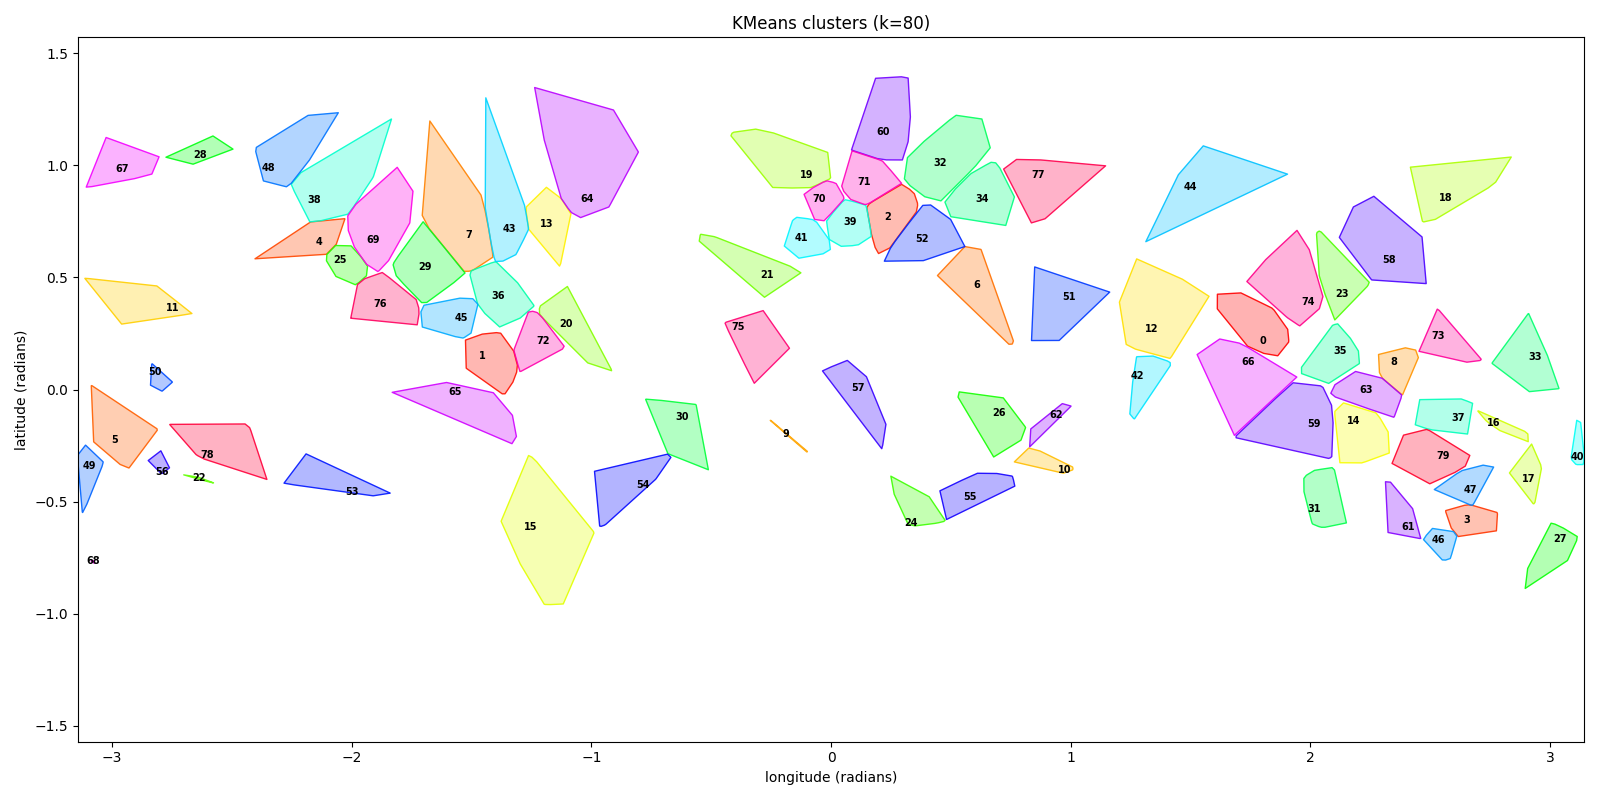
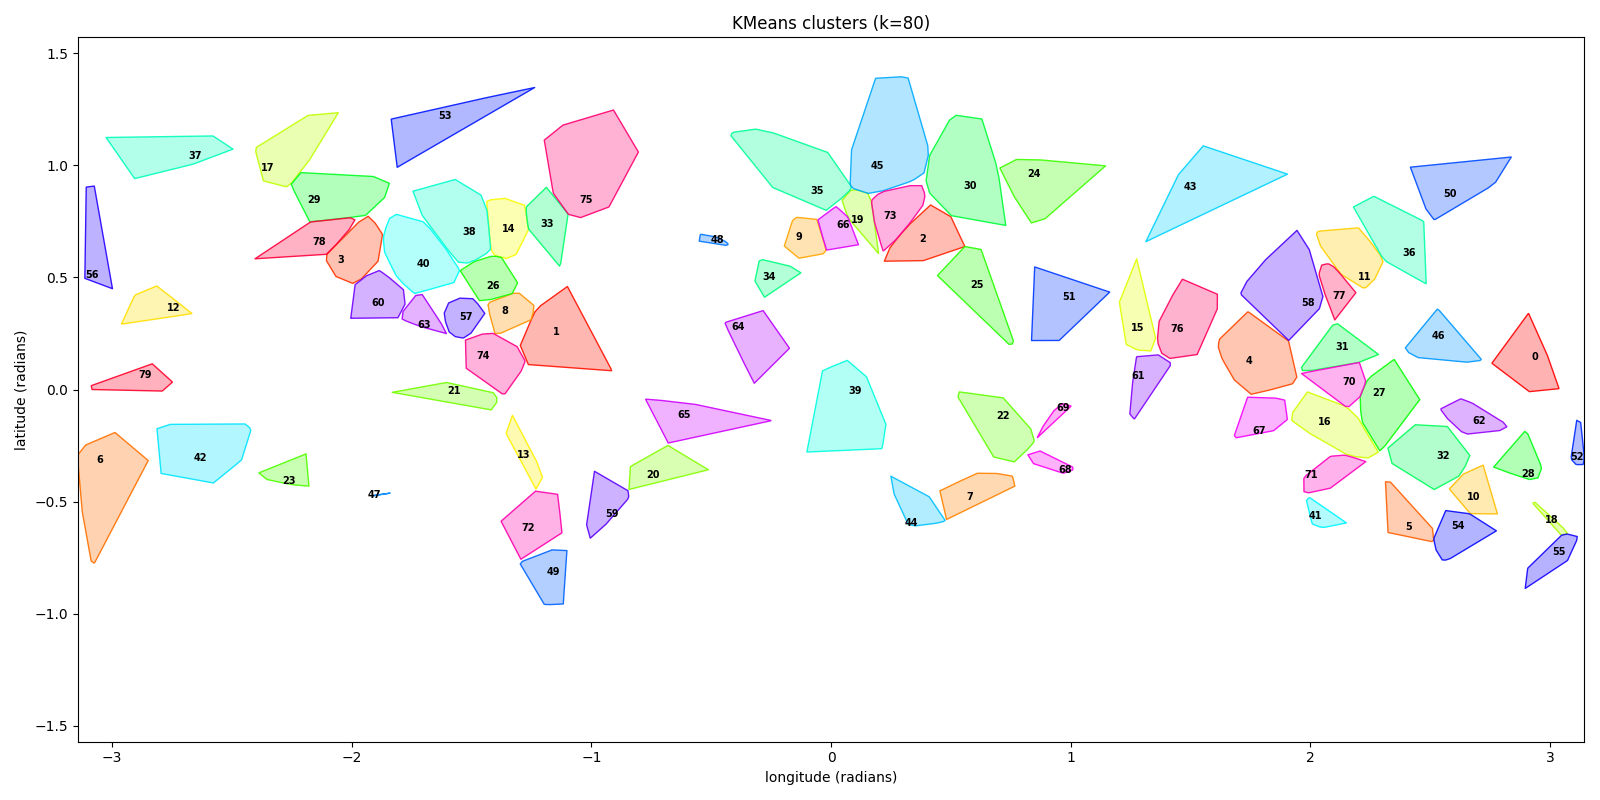
additional updates

diff --git a/tests/test_od_dataloader.py b/tests/test_od_dataloader.py
@@ -145,25 +145,15 @@ def dataset():
     mock_session_factory = MagicMock(return_value=mock_session_instance)
     mock_get_session = MagicMock(return_value=mock_session_factory)
 
-    mock_gcs_config = MagicMock()
-    mock_gcs_config.bucket = "whats-that-fish"
-    mock_gcs_config.prefixes.get.return_value = "object_detection"
-    mock_config = MagicMock()
-    mock_config.gcs = mock_gcs_config
-
-    with patch("whatsthatfish.models.od_dataset.get_session_factory", mock_get_session), \
-         patch("whatsthatfish.models.od_dataset.get_config", return_value=mock_config):
-        ds = ObjectDetectionDataset(split="train", transforms=_transform)
+    with patch("whatsthatfish.models.data.od_dataset.get_session_factory", mock_get_session):
+        ds = ObjectDetectionDataset(dataset="lila", split="train", transforms=_transform)
 
     return ds
 
 
-def _mock_bucket_for(image_bytes: bytes) -> MagicMock:
-    mock_blob = MagicMock()
-    mock_blob.download_as_bytes.return_value = image_bytes
-    mock_bucket = MagicMock()
-    mock_bucket.blob.return_value = mock_blob
-    return mock_bucket
+def _fake_pil_image(h: int = 64, w: int = 64):
+    arr = np.random.randint(0, 255, (h, w, 3), dtype=np.uint8)
+    return Image.fromarray(arr, mode="RGB")
 
 
 class TestObjectDetectionDataset:
@@ -172,34 +162,29 @@ class TestObjectDetectionDataset:
         assert len(dataset) == 3
 
     def test_getitem_returns_three_values(self, dataset):
-        mock_bucket = _mock_bucket_for(_make_image_bytes())
-        with patch("whatsthatfish.models.od_dataset._bucket", mock_bucket):
+        with patch("whatsthatfish.models.data.od_dataset.Image.open", return_value=_fake_pil_image()):
             result = dataset[0]
         assert len(result) == 3
 
     def test_getitem_image_shape(self, dataset):
-        mock_bucket = _mock_bucket_for(_make_image_bytes())
-        with patch("whatsthatfish.models.od_dataset._bucket", mock_bucket):
+        with patch("whatsthatfish.models.data.od_dataset.Image.open", return_value=_fake_pil_image()):
             img, _, _ = dataset[0]
         assert img.shape == (3, 64, 64)
         assert img.dtype == torch.float32
 
     def test_getitem_positive_label_shape(self, dataset):
-        mock_bucket = _mock_bucket_for(_make_image_bytes())
-        with patch("whatsthatfish.models.od_dataset._bucket", mock_bucket):
+        with patch("whatsthatfish.models.data.od_dataset.Image.open", return_value=_fake_pil_image()):
             _, labels, _ = dataset[0]
         assert labels.shape == (1, 5)
         assert labels.dtype == torch.float32
 
     def test_getitem_negative_label_is_empty(self, dataset):
-        mock_bucket = _mock_bucket_for(_make_image_bytes())
-        with patch("whatsthatfish.models.od_dataset._bucket", mock_bucket):
+        with patch("whatsthatfish.models.data.od_dataset.Image.open", return_value=_fake_pil_image()):
             _, labels, _ = dataset[1]
         assert labels.shape == (0, 5)
 
     def test_getitem_filename_returned(self, dataset):
-        mock_bucket = _mock_bucket_for(_make_image_bytes())
-        with patch("whatsthatfish.models.od_dataset._bucket", mock_bucket):
+        with patch("whatsthatfish.models.data.od_dataset.Image.open", return_value=_fake_pil_image()):
             _, _, fname = dataset[0]
         assert fname == "fish_001.jpg"
 
@@ -208,8 +193,7 @@ class TestObjectDetectionDataset:
         assert len(weights) == len(dataset)
 
     def test_image_values_normalized_to_unit_range(self, dataset):
-        mock_bucket = _mock_bucket_for(_make_image_bytes())
-        with patch("whatsthatfish.models.od_dataset._bucket", mock_bucket):
+        with patch("whatsthatfish.models.data.od_dataset.Image.open", return_value=_fake_pil_image()):
             img, _, _ = dataset[0]
         assert img.min().item() >= 0.0
         assert img.max().item() <= 1.0

diff --git a/tests/test_c_dataloader.py b/tests/test_c_dataloader.py
@@ -85,22 +85,22 @@ class TestCollateFnUltralytics:
 
     def test_images_are_stacked(self):
         batch = _batch(4)
-        imgs, _ = collate_fn_ultralytics(batch)
-        assert imgs.shape == (4, 3, 224, 224)
+        result = collate_fn_ultralytics(batch)
+        assert result["img"].shape == (4, 3, 224, 224)
 
     def test_labels_dict_has_only_cls_key(self):
         batch = _batch(2)
-        _, labels = collate_fn_ultralytics(batch)
-        assert set(labels.keys()) == {"cls"}
-        assert "genus" not in labels
-        assert "subfamily" not in labels
+        result = collate_fn_ultralytics(batch)
+        assert set(result["cls"].keys()) == {"cls"}
+        assert "genus" not in result["cls"]
+        assert "subfamily" not in result["cls"]
 
     def test_cls_tensor_length_matches_batch(self):
         batch = _batch(5)
-        _, labels = collate_fn_ultralytics(batch)
-        assert labels["cls"].shape == (5,)
+        result = collate_fn_ultralytics(batch)
+        assert result["cls"]["cls"].shape == (5,)
 
     def test_cls_values_are_species_labels(self):
         batch = [(_img(), _label(species=i, genus=99, subfamily=88)) for i in range(3)]
-        _, labels = collate_fn_ultralytics(batch)
-        assert labels["cls"].tolist() == [0, 1, 2]
+        result = collate_fn_ultralytics(batch)
+        assert result["cls"]["cls"].tolist() == [0, 1, 2]

diff --git a/tests/test_bbox_inference.py b/tests/test_bbox_inference.py
@@ -55,11 +55,11 @@ class TestNoDetection:
 
     def test_returns_none_when_boxes_is_none(self, inferrer):
         _set_predictions(inferrer, None)
-        assert inferrer.infer(_make_image_bytes()) is None
+        assert inferrer.infer(_make_image_bytes()) == [None]
 
     def test_returns_none_when_boxes_empty(self, inferrer):
         _set_predictions(inferrer, _FakeBoxes([], []))
-        assert inferrer.infer(_make_image_bytes()) is None
+        assert inferrer.infer(_make_image_bytes()) == [None]
 
 
 # ════════════════════════════════════════════════════════════════════════════════
@@ -73,7 +73,7 @@ class TestDetection:
         _set_predictions(inferrer, _FakeBoxes([[10.0, 10.0, 50.0, 60.0]], [0.8]))
         result = inferrer.infer(_make_image_bytes())
         assert len(result) == 1
-        assert set(result[0].keys()) == {"x1", "y1", "x2", "y2", "conf"}
+        assert set(result[0].keys()) == {"x1", "y1", "x2", "y2", "conf", "w", "h"}
 
     def test_selects_highest_confidence_box(self, inferrer):
         boxes = _FakeBoxes(
@@ -140,7 +140,7 @@ class TestBatchInference:
         result = inferrer.infer([_make_image_bytes(), _make_image_bytes()])
         assert len(result) == 2
         assert all(r is not None for r in result)
-        assert set(result[0].keys()) == {"x1", "y1", "x2", "y2", "conf"}
+        assert set(result[0].keys()) == {"x1", "y1", "x2", "y2", "conf", "w", "h"}
 
     def test_no_detection_in_one_image_yields_none_in_correct_position(self, inferrer):
         _set_batch_predictions(inferrer, [